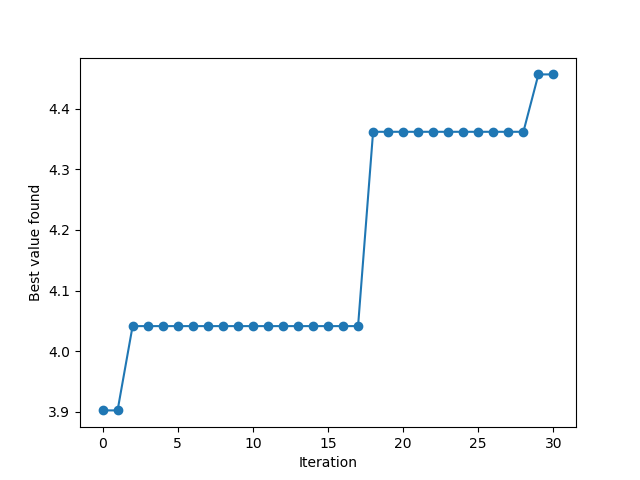
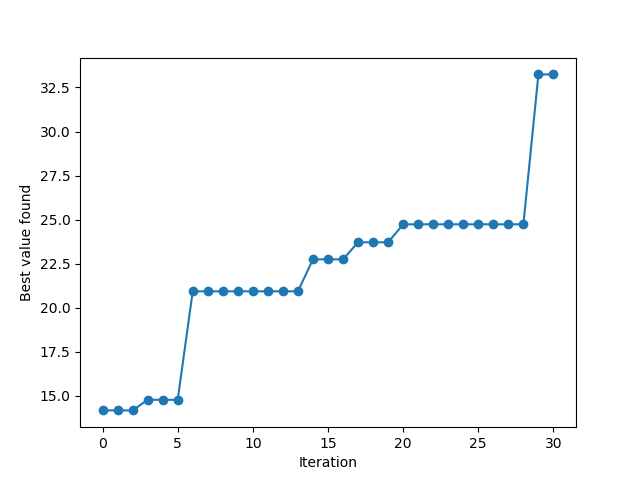
BO on 8 slices

diff --git a/loader/kdata_loader_GE.py b/loader/kdata_loader_GE.py
@@ -65,7 +65,9 @@ class kdata_loader_GE(data.Dataset):
         split = 'train',
         batchSize = 1,
         augmentations = [None],
-        SNR = 0
+        SNR = 0,  # used for BO project
+        flag_BO = 0,  # used for BO project
+        slice_spacing = 25  # used for BO project
     ):
 
         self.rootDir = rootDir
@@ -91,10 +93,14 @@ class kdata_loader_GE(data.Dataset):
         self.augIndex = 0
         self.batchSize = batchSize
         self.batchIndex = 0
-
-        # snr
         self.SNR = SNR
+        self.flag_BO = flag_BO
+        self.slice_spacing = slice_spacing
 
+        if self.flag_BO:
+            self.startIdx = 400
+            self.endIdx = 600
+            self.nsamples = (self.endIdx - self.startIdx) // self.slice_spacing
 
 
     def __len__(self):
@@ -103,8 +109,10 @@ class kdata_loader_GE(data.Dataset):
 
 
     def __getitem__(self, idx):
-
-        idx = int(idx / self.augSize) + self.startIdx
+        if self.flag_BO:
+            idx = int(idx / self.augSize) * self.slice_spacing + self.startIdx
+        else:
+            idx = int(idx / self.augSize) + self.startIdx
 
         if (self.batchIndex == self.batchSize):
 
@@ -126,7 +134,6 @@ class kdata_loader_GE(data.Dataset):
         if self.SNR != 0:
             var_n = np.abs(np.mean(kdata.flatten())) / self.SNR
             kdata += np.random.normal(0, np.sqrt(var_n/2), size=len(kdata.flatten())).reshape(kdata.shape)
-
 
         if self.contrast == 'T1':
             # tmp = load_mat(self.dataFD + 'brain_mask_slice_%d.mat' %(idx), 'brain_mask_slice')

diff --git a/main_BO.py b/main_BO.py
@@ -43,9 +43,11 @@ if __name__ == '__main__':
             rootDir=rootName,
             contrast=contrast, 
             split='test',
-            SNR = 100
+            SNR=100,
+            flag_BO=1,
+            slice_spacing=25
         )
-    data_loader = data.DataLoader(data_loader, batch_size=4, shuffle=False)
+    data_loader = data.DataLoader(data_loader, batch_size=8, shuffle=False)
 
     bounds = np.array([[-1., -1.], [1., 1.]])  # for log uniform space
     # bounds = np.array([[0., 0.], [10., 10.]])  # for uniform space
